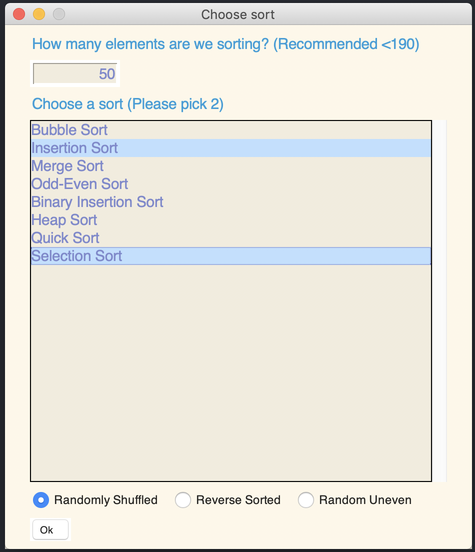
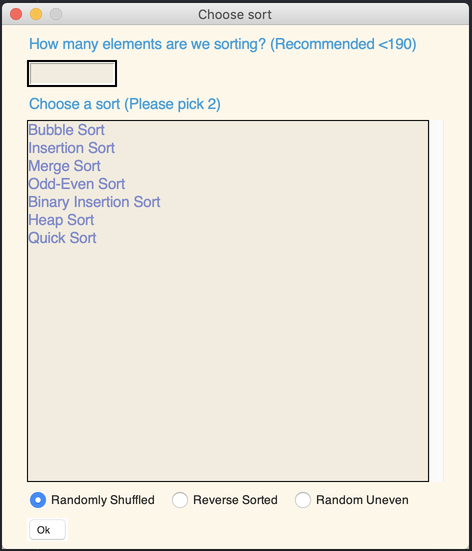
added some things

Changed region(s): [[0.0593, 0.0, 0.9195, 0.9256], [0.0, 0.0, 1.0, 1.0]]

diff --git a/main.py b/main.py
@@ -8,23 +8,8 @@ BAR_SPACING, EDGE_OFFSET = 11, 3
 
 SORTS = ['Bubble Sort', 'Insertion Sort', 'Merge Sort',
  'Odd-Even Sort', 'Binary Insertion Sort', 'Heap Sort',
- 'Quick Sort', 'Selection Sort']
+ 'Quick Sort']
 
-
-
-
-'''selection sort'''
-def selection_sort(arr):
-    for i in range(len(arr)):
-
-        min_idx = i
-        for j in range(i+1, len(arr)):
-            if arr[min_idx] > arr[j]:
-                min_idx = j
-            yield arr
-        #swap
-        arr[i], arr[min_idx] = arr[min_idx], arr[i]
-        yield arr
 
 '''insertion sort'''
 def insertion_sort(arr):
@@ -231,26 +216,29 @@ def draw_bars(graph, items, bar_width, bar_spacing):       # redraws bars each t
 
 
 def main():
+
+    # color theme
+    sg.change_look_and_feel('Tan')
+
+
+    # dictionary with sorting algorithm names as keys and their functions as values
     dict = {
             'Bubble Sort': bubble_sort, 'Insertion Sort': insertion_sort, 'Merge Sort': merge_sort,
              'Odd-Even Sort': odd_even_sort, 'Binary Insertion Sort': binary_insertion_sort, 'Heap Sort': heap_sort,
-             'Quick Sort': quick_sort, 'Selection Sort': selection_sort
+             'Quick Sort': quick_sort
         }
 
-
-    sg.change_look_and_feel('Tan')
-
+    # graph size
     GRAPH_SIZE = (800,300)
     DATA_SIZE = (800, 350)
 
-
-
+    # graph titles to be renamed later
     graph_title1 = ''
     graph_title2 = ''
 
 
-
     # Layout for first window
+    # consists of text, text input, listbox enabled for multiple selection, and group of radio buttons
     input_layout = [[sg.Text('How many elements are we sorting? (Recommended <190)', justification='left', font=("Helvetica", 15))],
         [sg.Input(size=(10, 1), justification='right', font=("Helvetica", 15), key='-INPUT-')],
             [sg.Text('Choose a sort (Please pick 2)', font=("Helvetica", 15))],
@@ -260,6 +248,7 @@ def main():
            sg.Radio('Random Uneven', group_id='radio', key='-R3-', font=("Helvetica", 12))],
           [sg.Ok()],]
 
+    # create the window
     window1 = sg.Window('Choose sort', input_layout)
     button, values = window1()
     window1.close()
@@ -273,7 +262,7 @@ def main():
     radio_input2 = bool(values['-R2-'])
     radio_input3 = bool(values['-R3-'])
 
-
+    # make the graph size bigger if number of elements to sort is large
     if number_input > 150:
         GRAPH_SIZE = (1100,300)
 
@@ -332,6 +321,7 @@ def main():
     start_button = sg.Button("Start", size= (5, 1))
     graph1 = sg.Graph(GRAPH_SIZE, (0,0), DATA_SIZE)
     graph2 = sg.Graph(GRAPH_SIZE, (0,0), DATA_SIZE)
+
 
     # layout of sorting window
     layout = [[start_button], [sg.T('', size=(10,1))], [sg.T(graph_title1, size=(20, 1), justification='left', font=("Helvetica", 20))], [graph1], [sg.T('', size=(10,1))],

diff --git a/README.md b/README.md
@@ -2,4 +2,10 @@
 
 Under Construction
 
+Install Python3 and PySimpleGUI to run the project <br />
+Ex. pip3 install pysimplegui
+
 ![Image of User Input](/images/inputwindow.png)
+
+
+![Image of User Input](/demo/sortingdemo.gif)
